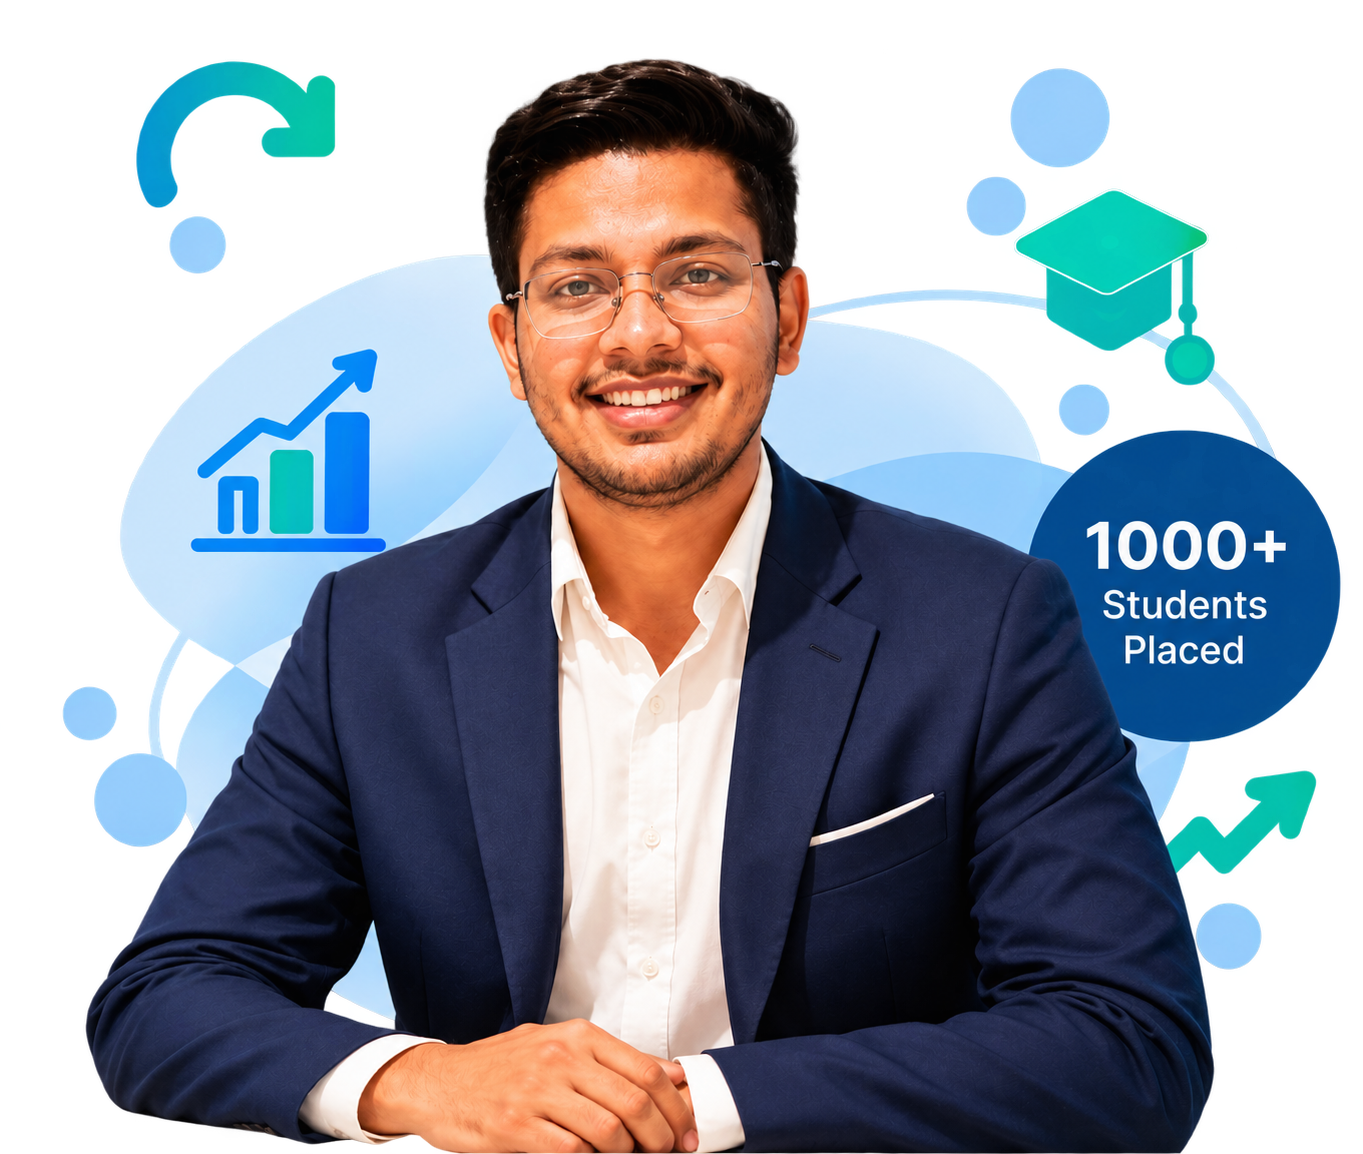
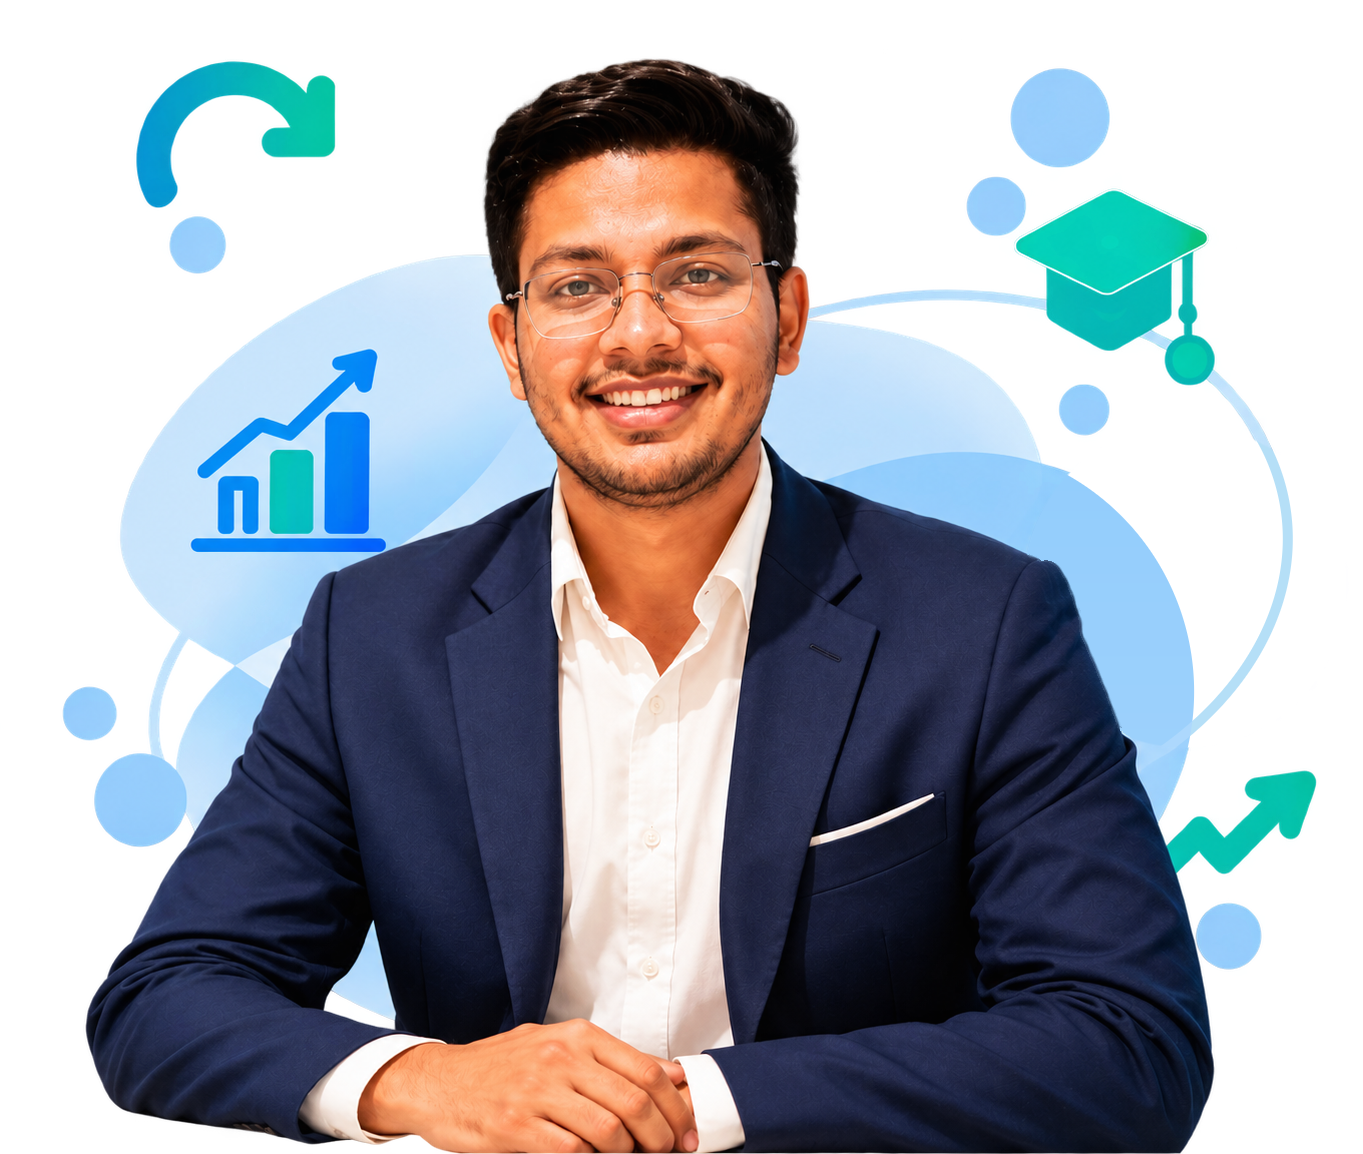
Fresher page: drop the 1000+ badge, Fresher certificate, sharper mentor photo
- Hero art: removed the "1000+ Students Placed" circle; the blob and orbit
  line behind it are redrawn so the art reads as one piece.
- Certificate section now shows a CA Fresher certificate
  (assets/certificate-fresher.webp, "MSC CA Fresher Program" in line 2)
  instead of the IT one.
- Mentor card on the Fresher and Industrial Training pages uses the same
  sharp photo as the Articleship page (Mentor-HeroSection-transparent.png,
  1287px) instead of the soft 500px mentornew.png.

Changed region(s): [[0.7395, 0.3744, 0.9861, 0.6551]]

diff --git a/msc-ca-fresher-program/index.html b/msc-ca-fresher-program/index.html
@@ -776,9 +776,9 @@
                 <div class="certificate-back"></div>
                 <div class="certificate-glass">
                   <div class="certificate-content">
-                    <img class="certificate-image" src="/assets/certificate.webp"
+                    <img class="certificate-image" src="/assets/certificate-fresher.webp"
                       alt="MSC CA Fresher Certificate of Completion"
-                      onerror="this.onerror=null; this.src='../assets/certificate.webp';">
+                      onerror="this.onerror=null; this.src='../assets/certificate-fresher.webp';">
                     <div class="certificate-overlay"></div>
                     <div class="shine-effect"></div>
                   </div>
@@ -812,7 +812,7 @@
           <div class="mentor-portrait-pane">
             <div class="mentor-portrait-glow"></div>
             <div class="mentor-image-frame">
-              <img src="../assets/mentornew.png" alt="CA Padam Bhansali" class="mentor-portrait-img"
+              <img src="/assets/Mentor-HeroSection-transparent.png" alt="CA Padam Bhansali" class="mentor-portrait-img"
                 onerror="this.onerror=null; this.src='/assets/mentornew.png';">
 
               <!-- Floating Bottom Experience Pill -->

diff --git a/ca-industrial-training-program/index.html b/ca-industrial-training-program/index.html
@@ -771,8 +771,8 @@
           <div class="mentor-portrait-pane">
             <div class="mentor-portrait-glow"></div>
             <div class="mentor-image-frame">
-              <img src="/assets/mentornew.png" alt="CA Padam Bhansali" class="mentor-portrait-img"
-                onerror="this.src='/assets/Mentor-HeroSection-transparent.png'">
+              <img src="/assets/Mentor-HeroSection-transparent.png" alt="CA Padam Bhansali" class="mentor-portrait-img"
+                onerror="this.onerror=null; this.src='/assets/mentornew.png';">
 
               <!-- Floating Bottom Experience Pill -->
               <div class="mentor-float-badge bottom-badge">
